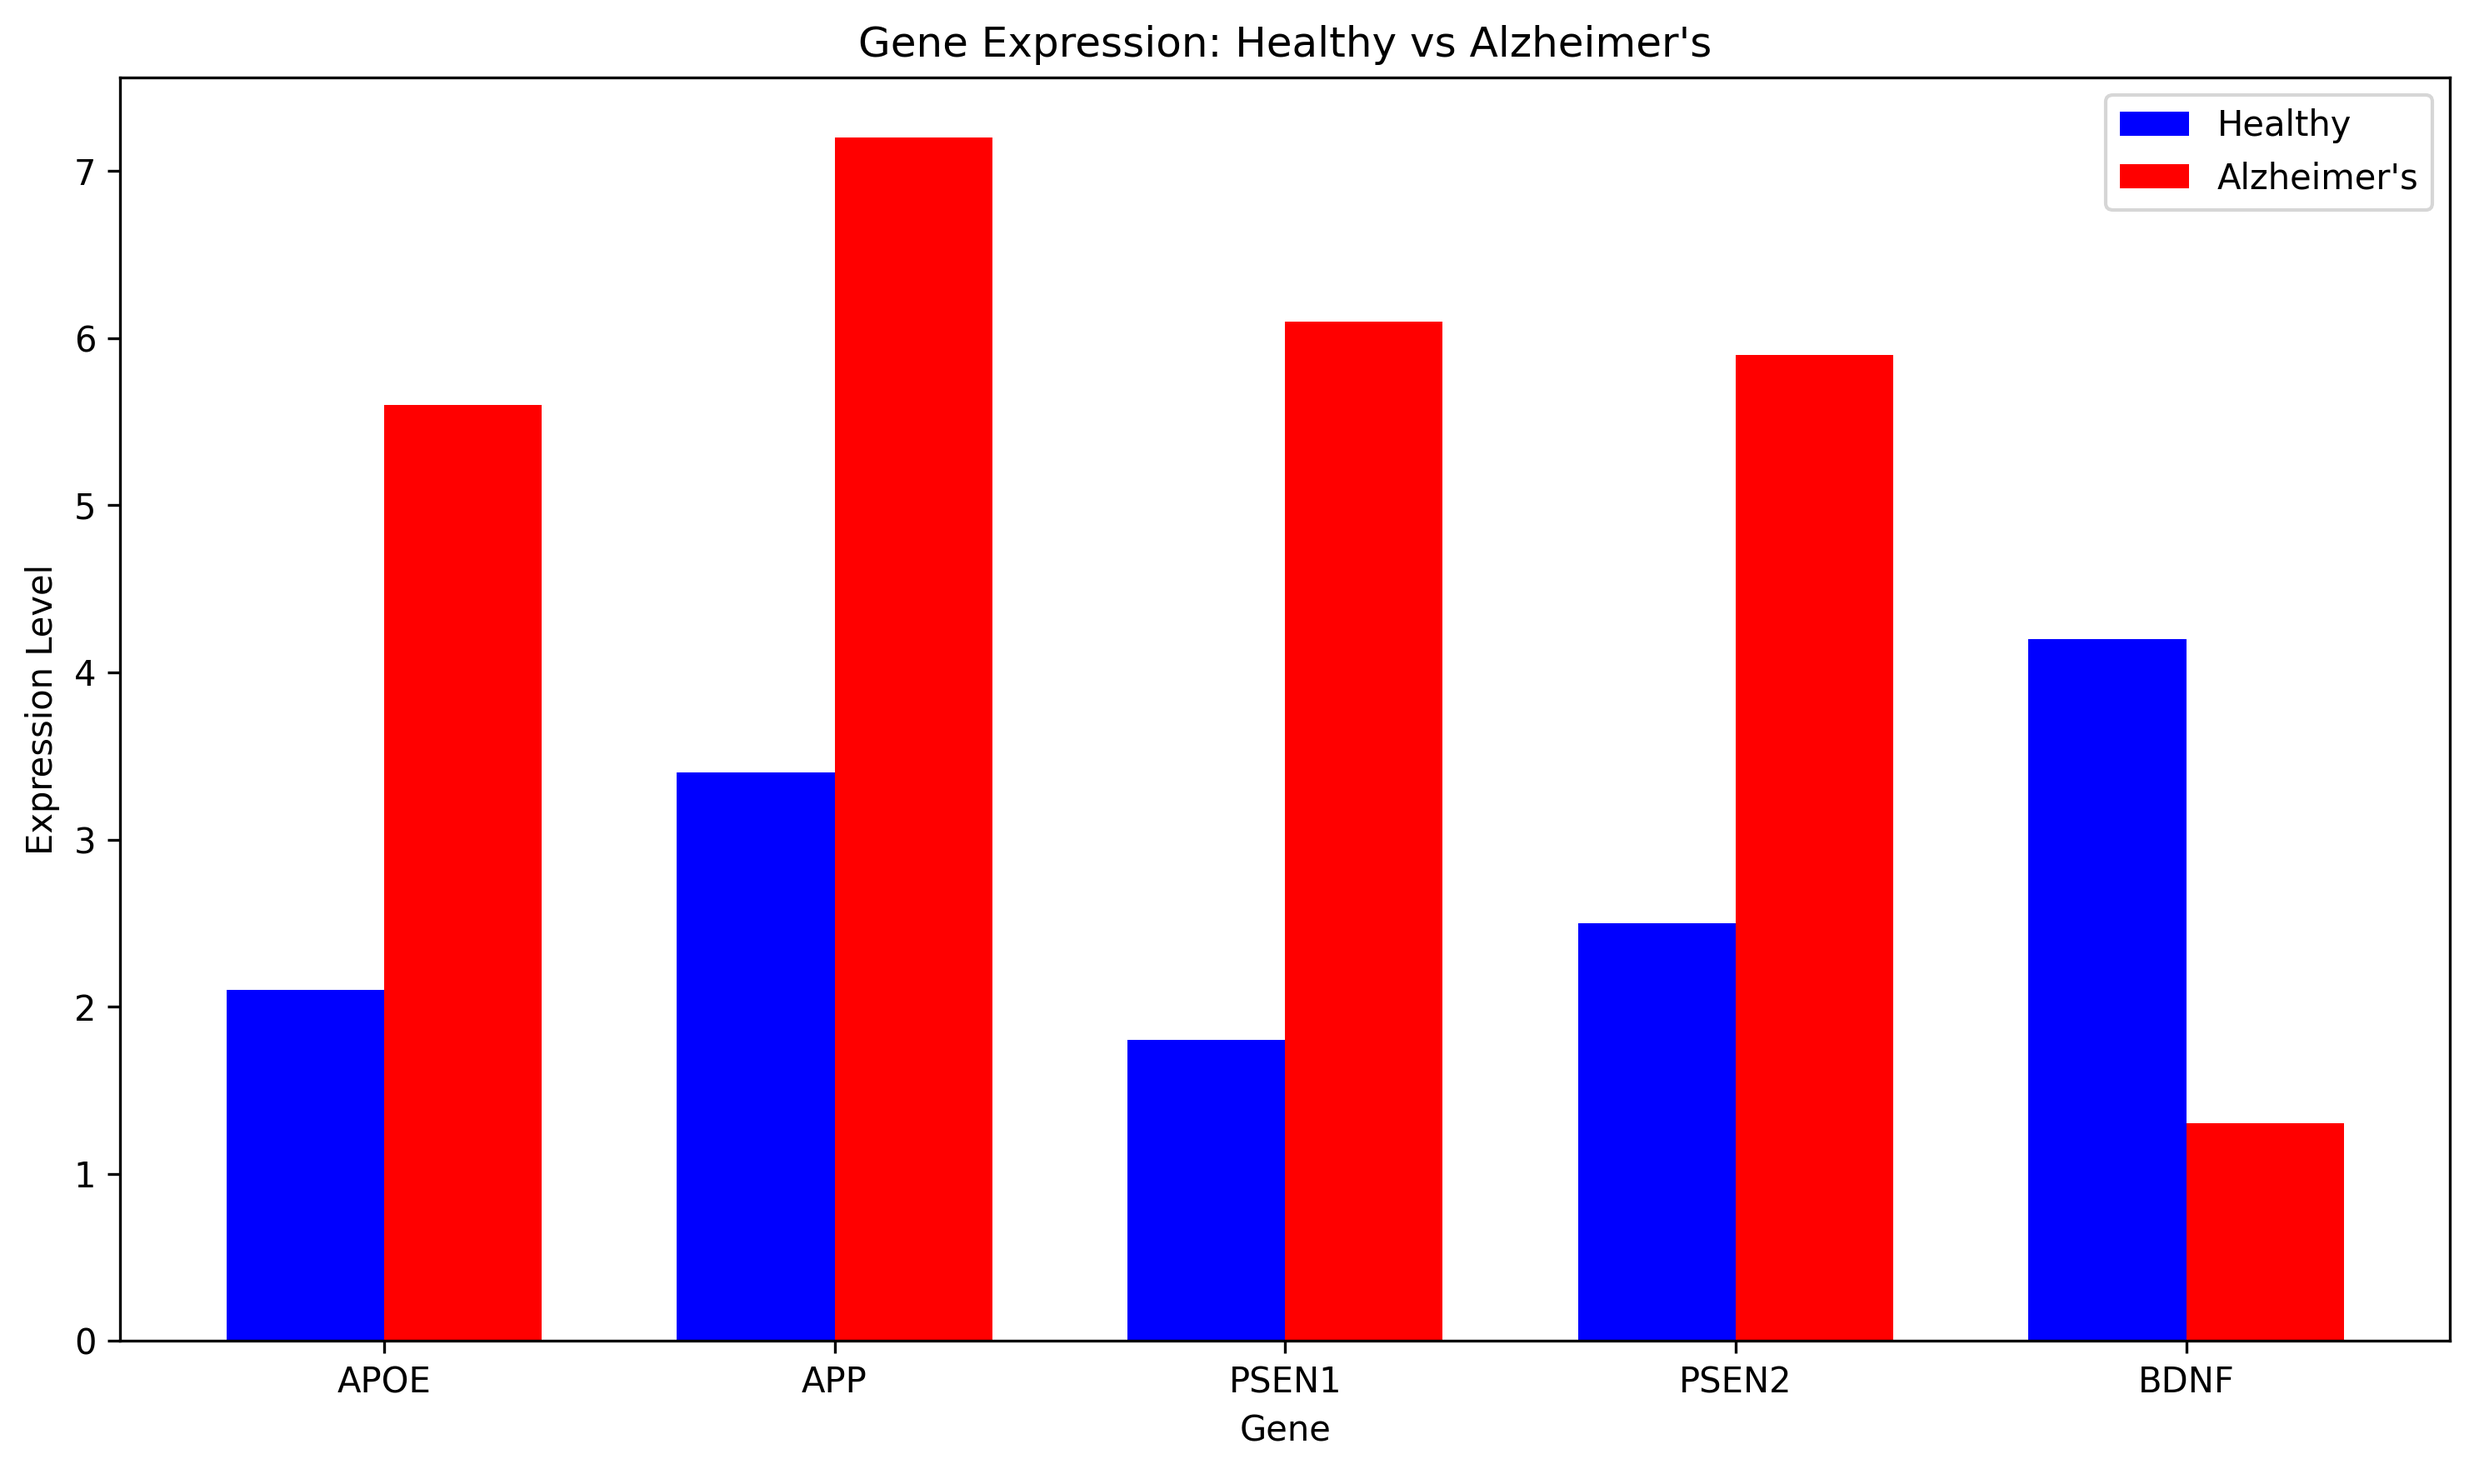
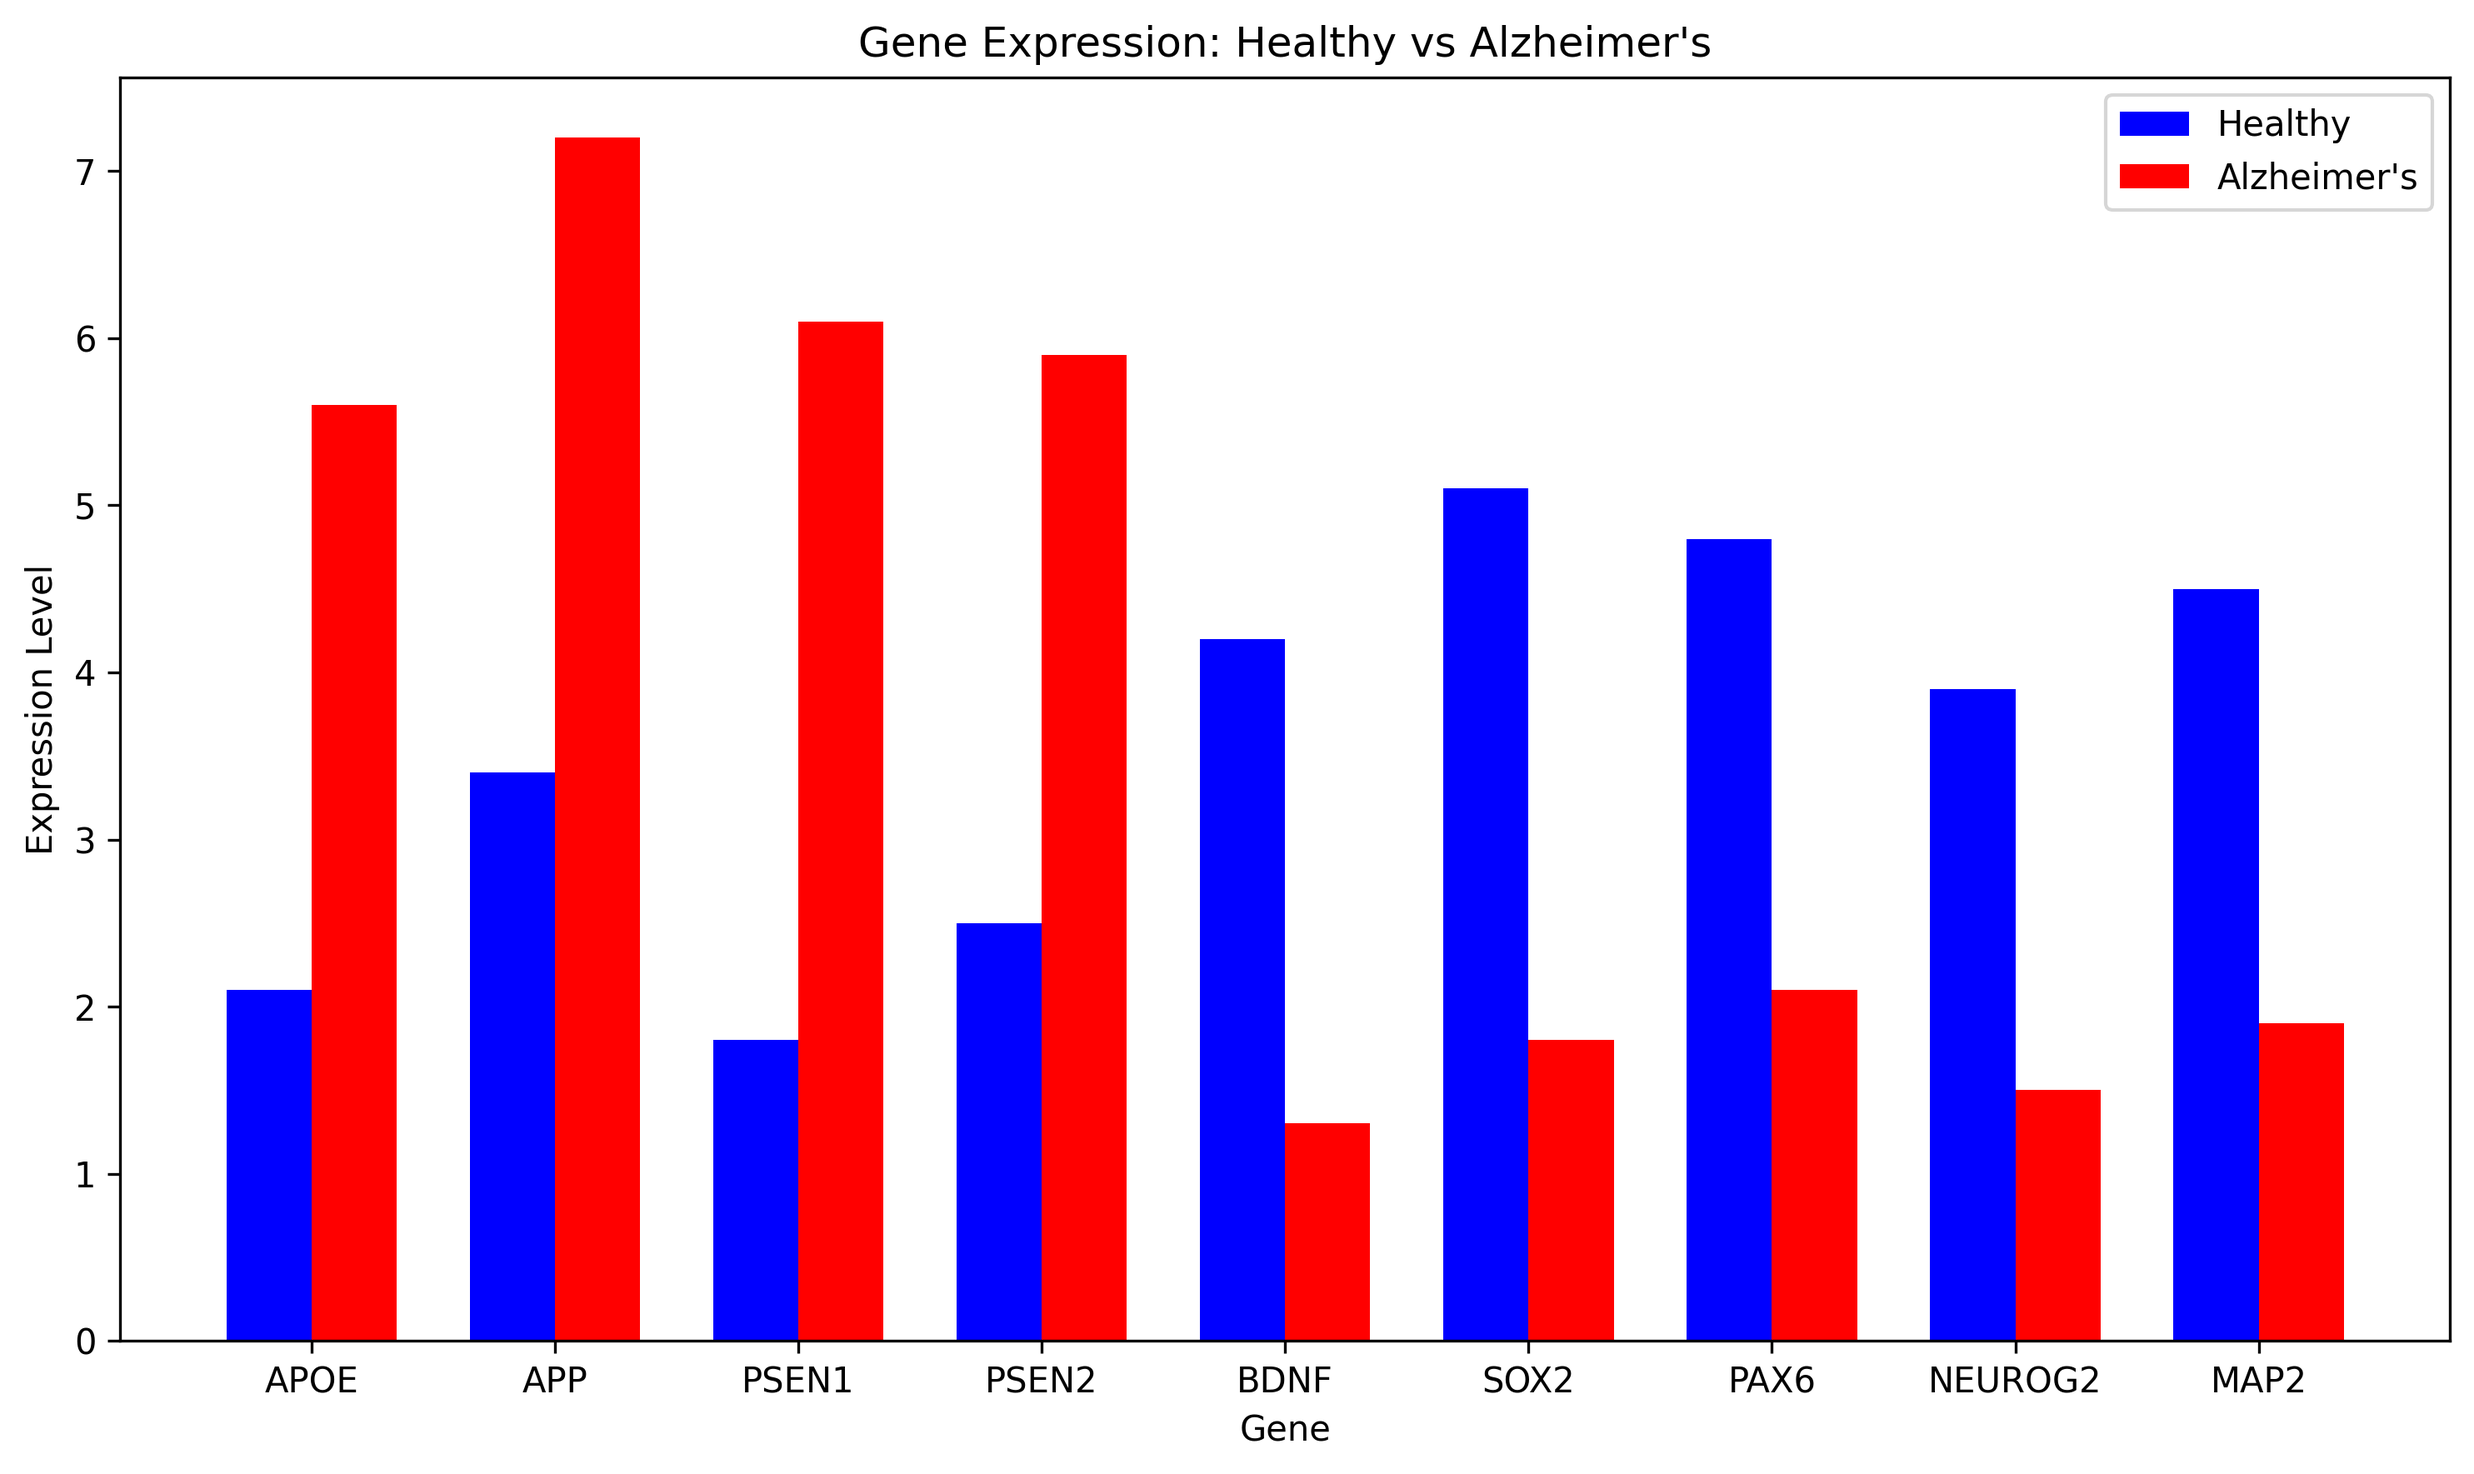
Session 9: Added transcription factors to gene expression analysis — full biological picture

diff --git a/helix.py b/helix.py
@@ -2,9 +2,9 @@ import matplotlib.pyplot as plt
 import pandas as pd
 
 data = {
-    "gene": ["APOE", "APP", "PSEN1", "PSEN2", "BDNF"],
-    "healthy": [2.1, 3.4, 1.8, 2.5, 4.2],
-    "alzheimers": [5.6, 7.2, 6.1, 5.9, 1.3]
+    "gene": ["APOE", "APP", "PSEN1", "PSEN2", "BDNF", "SOX2", "PAX6", "NEUROG2", "MAP2"],
+    "healthy": [2.1, 3.4, 1.8, 2.5, 4.2, 5.1, 4.8, 3.9, 4.5],
+    "alzheimers": [5.6, 7.2, 6.1, 5.9, 1.3, 1.8, 2.1, 1.5, 1.9]
 }
 
 df = pd.DataFrame(data)
